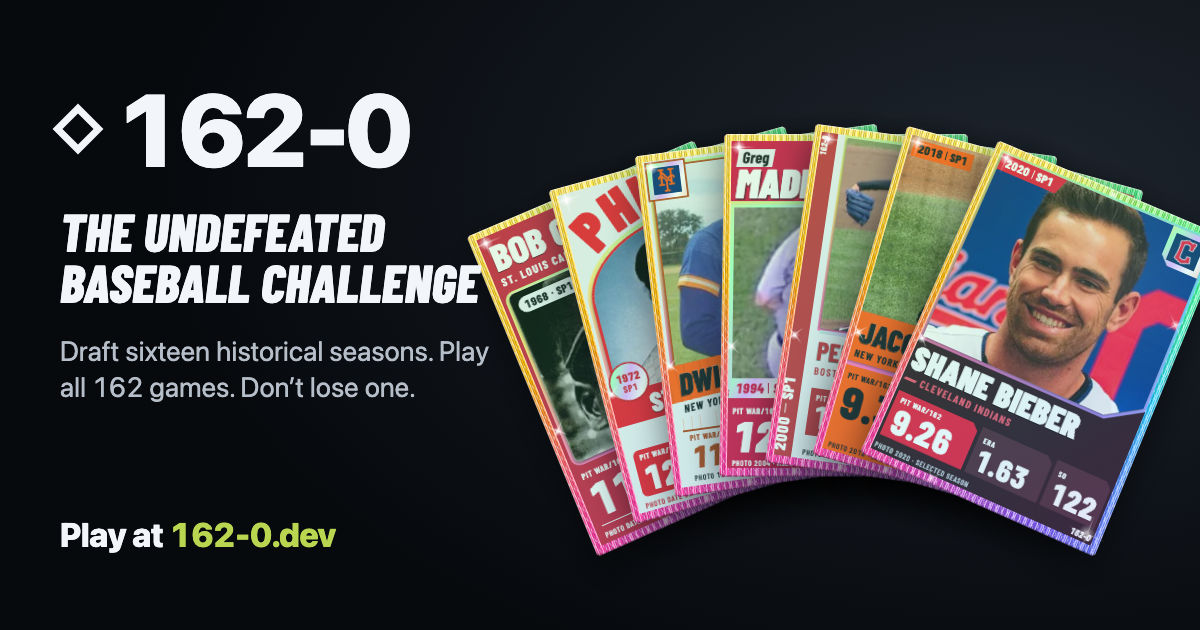
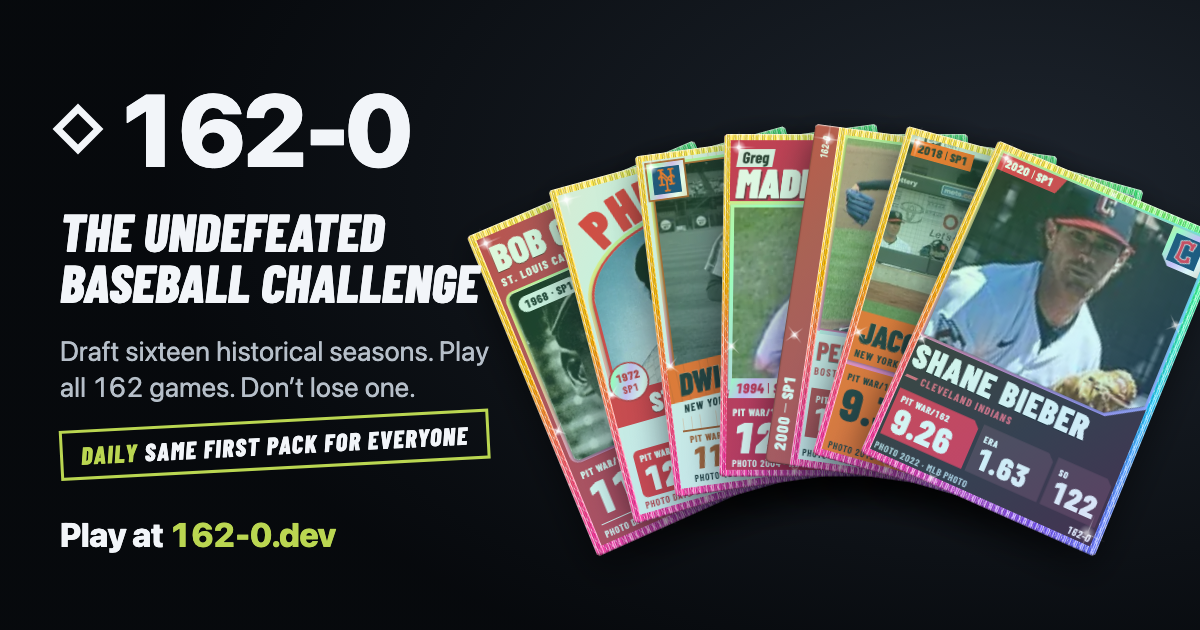
feat: Stamp daily link previews with the day
A shared daily season's link preview now carries the daily stamp, and
the site preview image is recaptured so the home page link shows the
daily stamp it was designed with.

Changed region(s): [[0.4317, 0.181, 1.0, 0.8746], [0.0308, 0.6333, 0.4317, 0.7841], [0.4933, 0.8143, 0.5242, 0.8444]]

diff --git a/src/lib/share/ShareOpenGraph.svelte b/src/lib/share/ShareOpenGraph.svelte
@@ -2,14 +2,15 @@
 	import { onMount } from 'svelte';
 	import Card from '../cards/Card.svelte';
 	import GradeBadge from '../components/GradeBadge.svelte';
+	import { dailyLabel } from '../game/daily.ts';
 	import { gradeRange, seasonGrade } from '../game/grade.ts';
 	import { previewCards } from './og-cards.ts';
 	import type { ShareRenderModel } from './types.ts';
 
 	/**
 	 * The season's 1200×630 link preview, published only as `og:image`: the record large enough to
-	 * read in a chat thumbnail, the grade and two season facts, and the roster's best cards fanned on
-	 * the right. Every length is a share of the frame's width, like the site preview it stands beside.
+	 * read in a chat thumbnail, the grade and two season facts, the daily stamp on a daily run, and the
+	 * roster's best cards fanned on the right. Every length is a share of the frame's width, like the site preview it stands beside.
 	 */
 	let { model }: { model: ShareRenderModel } = $props();
 	let hydrated = $state(false);
@@ -34,10 +35,13 @@
 	data-share-ready="false"
 	data-share-state="idle"
 	role="img"
-	aria-label={`${record.wins} wins, ${record.losses} losses${grade ? `, grade ${grade}` : ''} season link preview`}
+	aria-label={`${model.daily ? `Daily ${dailyLabel(model.daily)}: ` : ''}${record.wins} wins, ${record.losses} losses${grade ? `, grade ${grade}` : ''} season link preview`}
 >
 	<div class="copy">
-		<strong class="wordmark"><i aria-hidden="true"></i>162-0</strong>
+		<div class="masthead">
+			<strong class="wordmark"><i aria-hidden="true"></i>162-0</strong>
+			{#if model.daily}<span class="daily">Daily <b>{dailyLabel(model.daily)}</b></span>{/if}
+		</div>
 		<div class="final">
 			<small>Final record</small>
 			<div class="record" class:long={record.wins >= 100 || record.losses >= 100} aria-label={`${record.wins} wins and ${record.losses} losses`}><b>{record.wins}</b><span>–</span><b class="losses">{record.losses}</b></div>
@@ -59,6 +63,10 @@
 	.og { position:relative; box-sizing:border-box; width:100%; aspect-ratio:1200/630; container-type:inline-size; overflow:hidden; background:radial-gradient(120% 140% at 85% 30%, oklch(26% .02 255), oklch(14% .009 255) 60%); color:oklch(97% .006 255); font-family:-apple-system,BlinkMacSystemFont,'Segoe UI',system-ui,sans-serif; font-variant-numeric:tabular-nums; line-height:1; isolation:isolate; }
 	.copy { position:absolute; z-index:2; left:5cqw; top:4.6cqw; bottom:4.6cqw; width:44cqw; display:flex; flex-direction:column; align-items:flex-start; gap:2cqw; }
 	.wordmark { display:inline-flex; align-items:center; gap:1.3cqw; font-size:4.4cqw; font-weight:850; letter-spacing:-.04em; }
+	.masthead { display:flex; align-items:center; gap:2.4cqw; }
+	/* The daily run's stamp, as on results, the share images and the site preview. */
+	.daily { padding:.8cqw 1.6cqw; border:.3cqw solid oklch(83% .16 120); color:oklch(83% .16 120); font:italic 800 2.6cqw / 1 'Barlow Condensed', sans-serif; letter-spacing:.06em; text-transform:uppercase; white-space:nowrap; transform:rotate(-3deg); }
+	.daily b { color:oklch(97% .006 255); font-weight:800; }
 	.wordmark i { display:block; width:1.7cqw; height:1.7cqw; border:.35cqw solid currentColor; transform:rotate(45deg); }
 	.final { display:grid; gap:.9cqw; }
 	.final small { color:oklch(76% .018 255); font:700 2.2cqw / 1 'Barlow Condensed', sans-serif; letter-spacing:.08em; text-transform:uppercase; }

diff --git a/src/lib/share/SiteOpenGraph.svelte b/src/lib/share/SiteOpenGraph.svelte
@@ -38,7 +38,7 @@
 	h1 { margin:0; font:italic 800 4.4cqw / .95 'Barlow Condensed', sans-serif; letter-spacing:.005em; text-transform:uppercase; }
 	p { margin:0; max-width:37cqw; color:oklch(80% .018 255); font-size:2.3cqw; line-height:1.3; }
 	/* The daily run's stamp, as on results and share images. */
-	.daily { padding:.9cqw 1.8cqw; border:.3cqw solid oklch(83% .16 120); color:oklch(83% .16 120); font:italic 800 2.4cqw / 1 'Barlow Condensed', sans-serif; letter-spacing:.06em; text-transform:uppercase; white-space:nowrap; transform:rotate(-3deg); transform-origin:left center; }
+	.daily { padding:.8cqw 1.5cqw; border:.3cqw solid oklch(83% .16 120); color:oklch(83% .16 120); font:italic 800 2.05cqw / 1 'Barlow Condensed', sans-serif; letter-spacing:.06em; text-transform:uppercase; white-space:nowrap; transform:rotate(-3deg); transform-origin:left center; }
 	.daily b { color:oklch(97% .006 255); font-weight:800; }
 	.cta { margin-top:auto; white-space:nowrap; font-size:2.8cqw; font-weight:800; letter-spacing:-.02em; }
 	.cta em { font-style:normal; color:oklch(83% .16 120); }
